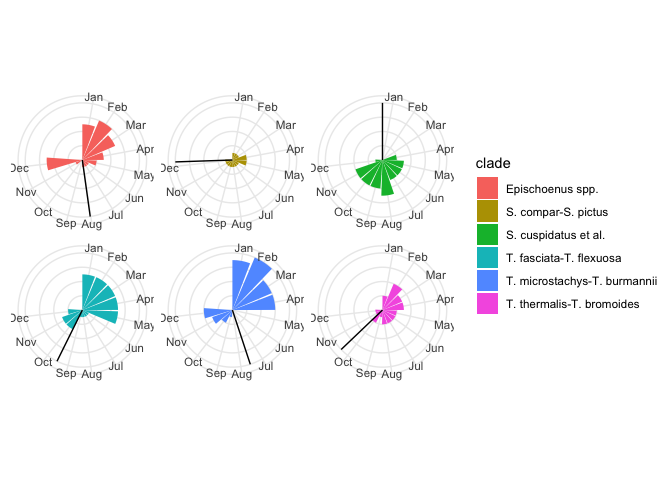
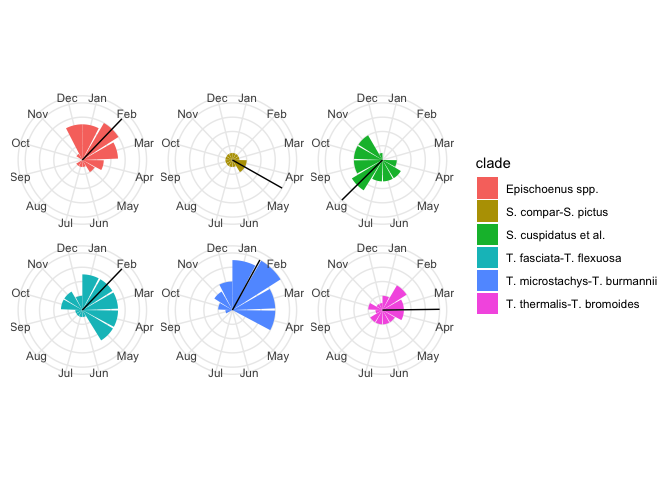
Fix up circular data methods

diff --git a/_drafts/2019-03-25-circular-data.md b/_drafts/2019-03-25-circular-data.md
@@ -437,108 +437,80 @@ flowering_summary
     ##  [1] 10 11 12  1  2  5  6  7  8  1  2  3  4  2  3  4  5  6  7  8  9 10  2
     ## [24]  3  4
 
-Now let’s `circular::`-ise the
-data:
+Now let’s `circular::`-ise and mean the data:
 
 ``` r
-# FIXME: this seems buggy on the packages' part, so maybe I should just convert to radians, do the mean, then convert back?
-flowering_circular <- flowering_summary %>%
-  map(as.circular,
-    type     = "directions",
-    units    = "hours", 
-    template = "clock24",  # a bit of a hack way to treat month data...
-    rotation = "clock",
-    zero = 1
-  )
-flowering_circular
+library(tidyverse)
+library(magrittr)  # ::divide_by()
+```
+
+    ## 
+    ## Attaching package: 'magrittr'
+
+    ## The following object is masked from 'package:purrr':
+    ## 
+    ##     set_names
+
+    ## The following object is masked from 'package:tidyr':
+    ## 
+    ##     extract
+
+``` r
+library(circular)
+library(astroFns)  # ::hms2rad()
+
+month2rad <- function(month) {
+  stopifnot(month %in% 1:12)
+  hms2rad(2 * month)  # use 24hr time as astroFns:: does
+}
+rad2month <- function(radian) {
+  radian %>%
+    rad2hms() %>%
+    substr(1, 2) %>%  # b/c astroFns:: returns an hms string
+    as.numeric() %>%
+    divide_by(2)
+}
+my_circular_mean <- function(x) {
+  x %>%
+    month2rad() %>%
+    circular(rotation = "clock", template = "geographics") %>%
+    mean() %>%
+    rad2month()
+}
+```
+
+``` r
+flowering_circular_means <- flowering_summary %>%
+  map(~.x[!is.na(.x)]) %>%  # FIXME/TODO: track down this NA!
+  map(my_circular_mean)
+flowering_circular_means
 ```
 
     ## $Epischoenus_spp
-    ## Circular Data: 
-    ## Type = directions 
-    ## Units = hours 
-    ## Template = clock24 
-    ## Modulo = asis 
-    ## Zero = 1.570796 
-    ## Rotation = clock 
-    ##  [1]  2  3  4  5  6  7  8 12  1  2  3 12  1  2  3  4 12  1  2  3 12 11 12
-    ## [24]  1  2  3  4  5  1  2
+    ## [1] 2
     ## 
     ## $S_compar_S_pictus
-    ## Circular Data: 
-    ## Type = directions 
-    ## Units = hours 
-    ## Template = clock24 
-    ## Modulo = asis 
-    ## Zero = 1.570796 
-    ## Rotation = clock 
-    ##  [1]  7  8  9 10 11  4  5  6 12  1  2  3  4  5
+    ## [1] 4.5
     ## 
     ## $S_cuspidatus_et_al
-    ## Circular Data: 
-    ## Type = directions 
-    ## Units = hours 
-    ## Template = clock24 
-    ## Modulo = asis 
-    ## Zero = 1.570796 
-    ## Rotation = clock 
-    ##  [1]  7  8  8  9 10 11  4  5  6  8  9 10 11  4  5  6  7  8  9 10 11  5  6
-    ## [24]  7  8  9 10 11 12 NA
+    ## [1] 8
     ## 
     ## $T_fasciata_T_flexuosa
-    ## Circular Data: 
-    ## Type = directions 
-    ## Units = hours 
-    ## Template = clock24 
-    ## Modulo = asis 
-    ## Zero = 1.570796 
-    ## Rotation = clock 
-    ##  [1] 10 11  8  9 10 11 12  1  2  3  4  5  3  4  5  6  7  1  2  3  4  5  1
-    ## [24]  2  3  4  5 12  1  2  1  2  3  4  5 10 11
+    ## [1] 2
     ## 
     ## $T_microstachys_T_burmannii
-    ## Circular Data: 
-    ## Type = directions 
-    ## Units = hours 
-    ## Template = clock24 
-    ## Modulo = asis 
-    ## Zero = 1.570796 
-    ## Rotation = clock 
-    ##  [1] 11 12  1  2  3  4  1  2  3  4 12  1  2  1  2  3  4  1  2 10 11 12  1
-    ## [24]  2  3  4  2  3  4  9 10 11 12  1  2  3  4
+    ## [1] 1.5
     ## 
     ## $T_thermalis_T_bromoides
-    ## Circular Data: 
-    ## Type = directions 
-    ## Units = hours 
-    ## Template = clock24 
-    ## Modulo = asis 
-    ## Zero = 1.570796 
-    ## Rotation = clock 
-    ##  [1] 10 11 12  1  2  5  6  7  8  1  2  3  4  2  3  4  5  6  7  8  9 10  2
-    ## [24]  3  4
+    ## [1] 3.5
 
 What are the means?
-
-``` r
-flowering_circular %>%
-  map(mean, na.rm = TRUE) %>%
-  as_vector()  # Less over-whelming printing
-```
-
-    ##            Epischoenus_spp          S_compar_S_pictus 
-    ##                   8.024536                  12.195391 
-    ##         S_cuspidatus_et_al      T_fasciata_T_flexuosa 
-    ##                  16.188765                   9.513487 
-    ## T_microstachys_T_burmannii    T_thermalis_T_bromoides 
-    ##                   7.576192                  10.381947
 
 Let’s add these to our plot:
 
 ``` r
 # Put the means in a data.frame so ggplot2 can understand
-mean_flowering_times <- flowering_circular %>%
-  map(mean, na.rm = TRUE) %>%
+mean_flowering_times <- flowering_circular_means %>%
   imap_dfr(~tibble(clade = .y, mean_flowering_time = .x)) %>%
   arrange(clade) %>%
   mutate(clade = unique(sort(flowering_times$clade)))
@@ -547,21 +519,6 @@ flowering_plot2 +
 ```
 
 ![](2019-03-25-circular-data_files/figure-gfm/plot-circularised-flowering-data-w-means-1.png)<!-- -->
-
-``` r
-par(mfrow = c(2, 3))
-flowering_circular %>%
-  iwalk(function(.x, .y) {
-    plot(.x, main = .y)
-    points(mean(.x, na.rm = TRUE), col = "red")
-  })
-```
-
-![](2019-03-25-circular-data_files/figure-gfm/plot-circularised-flowering-data-w-means-2.png)<!-- -->
-
-``` r
-par(mfrow = c(1, 1))
-```
 
 ## Session info
 
@@ -587,9 +544,10 @@ sessionInfo()
     ## [1] stats     graphics  grDevices utils     datasets  methods   base     
     ## 
     ## other attached packages:
-    ##  [1] forcats_0.4.0   stringr_1.4.0   dplyr_0.8.0.1   purrr_0.3.2    
-    ##  [5] readr_1.3.1     tidyr_0.8.3     tibble_2.1.1    tidyverse_1.2.1
-    ##  [9] here_0.1        circular_0.4-93 ggplot2_3.1.1  
+    ##  [1] astroFns_4.1-0  magrittr_1.5    forcats_0.4.0   stringr_1.4.0  
+    ##  [5] dplyr_0.8.0.1   purrr_0.3.2     readr_1.3.1     tidyr_0.8.3    
+    ##  [9] tibble_2.1.1    tidyverse_1.2.1 here_0.1        circular_0.4-93
+    ## [13] ggplot2_3.1.1  
     ## 
     ## loaded via a namespace (and not attached):
     ##  [1] tidyselect_0.2.5 xfun_0.6         haven_2.1.0      lattice_0.20-38 
@@ -601,11 +559,11 @@ sessionInfo()
     ## [25] knitr_1.22       fansi_0.4.0      highr_0.8        broom_0.5.2     
     ## [29] Rcpp_1.0.1       scales_1.0.0     backports_1.1.4  jsonlite_1.6    
     ## [33] hms_0.4.2        digest_0.6.19    stringi_1.4.3    grid_3.5.0      
-    ## [37] rprojroot_1.3-2  cli_1.1.0        tools_3.5.0      magrittr_1.5    
-    ## [41] lazyeval_0.2.2   zeallot_0.1.0    crayon_1.3.4     pkgconfig_2.0.2 
-    ## [45] xml2_1.2.0       lubridate_1.7.4  rstudioapi_0.10  assertthat_0.2.1
-    ## [49] rmarkdown_1.12   httr_1.4.0       R6_2.4.0         boot_1.3-22     
-    ## [53] nlme_3.1-137     compiler_3.5.0
+    ## [37] rprojroot_1.3-2  cli_1.1.0        tools_3.5.0      lazyeval_0.2.2  
+    ## [41] zeallot_0.1.0    crayon_1.3.4     pkgconfig_2.0.2  xml2_1.2.0      
+    ## [45] lubridate_1.7.4  rstudioapi_0.10  assertthat_0.2.1 rmarkdown_1.12  
+    ## [49] httr_1.4.0       R6_2.4.0         boot_1.3-22      nlme_3.1-137    
+    ## [53] compiler_3.5.0
 
 ## Further reading
 
